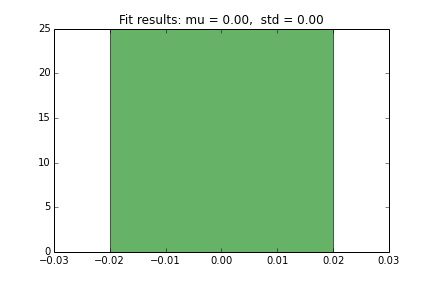
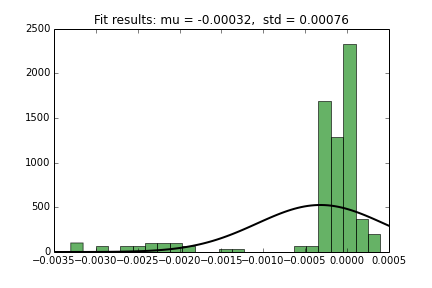
imageDetectionNoise
new script to detect noise on imagedetection

diff --git a/Code/imageDetectionNoise.py b/Code/imageDetectionNoise.py
@@ -81,20 +81,17 @@ def checkReference(reference, data, accuracy):
                         matchedData.append(matchedPoint)
     
     return matchedData
-
+#==============================================================================
 def getDistribution(filePath, refMeasurements):
     #List containing all corner measurements
     measurements = dE.getMeasurements(filePath,'pos =') 
     
     # Measurements which are not due to random noise
-    filteredMeasurements = checkReference(refMeasurements, measurements, 500) 
-    
-    #Split filtered corners in list of points that belong together
-    measurements_point_A = dE.removeSublistLevel(filteredMeasurements,0)     
+    filteredMeasurements = checkReference(refMeasurements, measurements, 500)  
     
     # Extracting difference in x and y coordinates from split corners
-    x_A = dE.removeSublistLevel(measurements_point_A, 0)
-    y_A = dE.removeSublistLevel(measurements_point_A, 1)
+    x_A = removeSublistLevel(filteredMeasurements, 0)
+    y_A = removeSublistLevel(filteredMeasurements, 1)
     
     # Putting all the differences in one list
     allDifferences = []
@@ -105,7 +102,7 @@ def getDistribution(filePath, refMeasurements):
     mu, std = norm.fit(allDifferences)
     
     return mu, std, allDifferences
-    
+#==============================================================================    
 def removeSublistLevel(masterList, index):
     """
     Function that returns all elements from sublists in a masterlist at index
@@ -142,10 +139,12 @@ def removeSublistLevel(masterList, index):
     else:
         # Getting sublists
         for sublist in masterList:
-            sublistElements.append(sublist)
+            for sub in sublist:
+                sublistElements.append(sub[index])
         
-    return sublistElements    
-
+    return sublistElements
+#==============================================================================
+    
 """ 
 MAIN SCRIPT: USING FUNCTIONS TO EXTRACT DATA
 """
@@ -155,39 +154,28 @@ filePath = dE.getFilePath()
 
 refMeasurements = [['0.4949', '0.5029']] # reference data which is considered correct (from camera)
 
-# DEBUG
-measurements = dE.getMeasurements(filePath,'pos =') 
-filteredMeasurements = checkReference(refMeasurements, measurements, 500) 
-#Split filtered corners in list of points that belong together
-measurements_point_A = dE.removeSublistLevel(filteredMeasurements,0)
-
-# Extracting difference in x and y coordinates from split corners
-x_A = dE.removeSublistLevel(measurements_point_A, 0)
-y_A = dE.removeSublistLevel(measurements_point_A, 1)
-# END DEBUG
-
 # Getting distributions
-#mu, std, allDifferences = getDistribution(filePath, refMeasurements)
-#
-## Plotting the histograms
-#plt.figure(1)
-#plt.hist(allDifferences, bins=25, normed=True, alpha=0.6, color='g')
-#
-## Plot the PDFs
-#plt.figure(1)
-#xmin, xmax = plt.xlim()
-#x = np.linspace(xmin, xmax, 100)
-#p = norm.pdf(x, mu, std)
-#plt.plot(x, p, 'k', linewidth=2)
-#title = "Fit results: mu = %.2f,  std = %.2f" % (mu, std)
-#plt.title(title)
-#
-## Saving figure
-#save_string = raw_input("Do you want to save the figure ? (y/n): ")
-#if save_string == 'y':
-#    savePath = dE.getSavePath()
-#    plt.savefig(savePath + '/imageDetectionNoise.png')
-#elif save_string == 'n':
-#    print('Figure not saved')
-#else:
-#    print('Input invalid, figure not saved')
+mu, std, allDifferences = getDistribution(filePath, refMeasurements)
+
+# Plotting the histograms
+plt.figure(1)
+plt.hist(allDifferences, bins=25, normed=True, alpha=0.6, color='g')
+
+# Plot the PDFs
+plt.figure(1)
+xmin, xmax = plt.xlim()
+x = np.linspace(xmin, xmax, 100)
+p = norm.pdf(x, mu, std)
+plt.plot(x, p, 'k', linewidth=2)
+title = "Fit results: mu = %.5f,  std = %.5f" % (mu, std)
+plt.title(title)
+
+# Saving figure
+save_string = raw_input("Do you want to save the figure ? (y/n): ")
+if save_string == 'y':
+    savePath = dE.getSavePath()
+    plt.savefig(savePath + '/imageDetectionNoise.png')
+elif save_string == 'n':
+    print('Figure not saved')
+else:
+    print('Input invalid, figure not saved')
